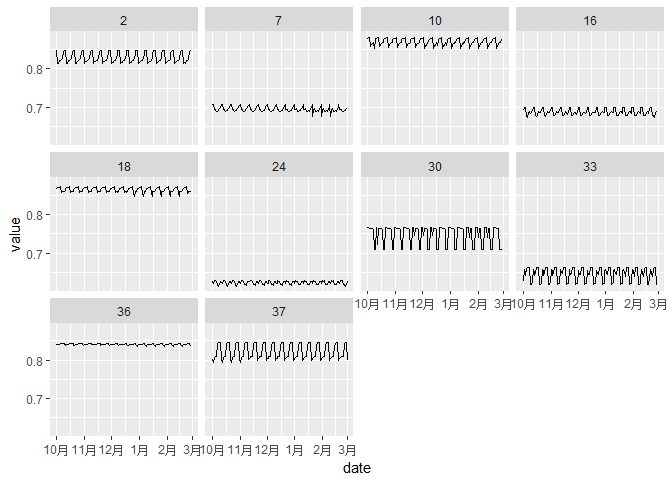
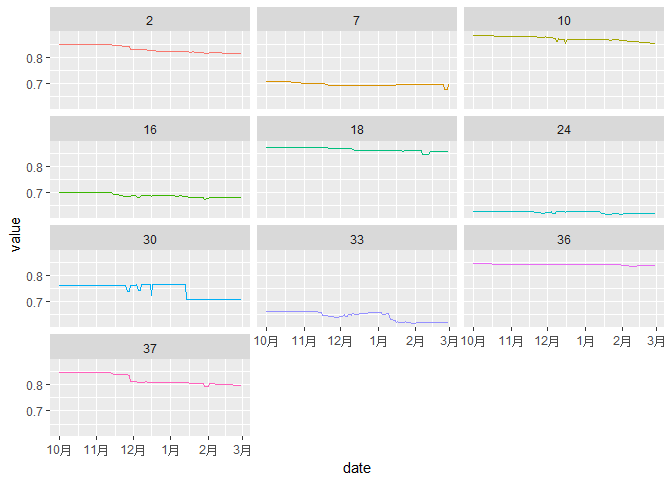
fix some mistakes

diff --git a/users/EugeneHao/DMC_test.md b/users/EugeneHao/DMC_test.md
@@ -620,9 +620,11 @@ but not very much.
 over rrp for all items. We can find the downtrend and the price got the
 lowest on 25th Feb and then rose up a lot.
 
-    prices_average %>% group_by(category) %>% summarise_all(funs(mean(.,na.rm=T))) %>% as.data.frame() %>% gather(date,value,-category) ->prices_average2
+    prices_average$category<-factor(prices_average$category)
+    prices_average%>% gather(date,value,-category)%>% group_by(category,date) %>% summarise_at(vars(value), funs(mean(., na.rm=T))) %>% ungroup %>% as.data.frame() ->prices_average2
     prices_average2$date<-rep(date2,each1=10)
-    ggplot(data=prices_average2,aes(x=date,y=value))+geom_line()+facet_wrap(~category)
+    ggplot(data=prices_average2,aes(x=date,y=value,col=as.factor(category)))+
+      geom_line()+facet_wrap(~category,ncol=3)+theme(legend.position='none')
 
 ![](figures/unnamed-chunk-18-1.png) I tried to analyze the price grouped
 by category and found that the price changed with regularity per week.
@@ -712,3 +714,8 @@ mainCategory 15 and 7 belongs to mainCategory 1. Category 2, 10, 18, 36,
 </tr>
 </tbody>
 </table>
+
+    ggplot(data=prices_average2,aes(x=date,y=value,col=as.factor(category)))+
+      geom_line()+facet_wrap(~category,scales="free",ncol=3)+theme(legend.position='none')
+
+![](figures/unnamed-chunk-19-1.png)
